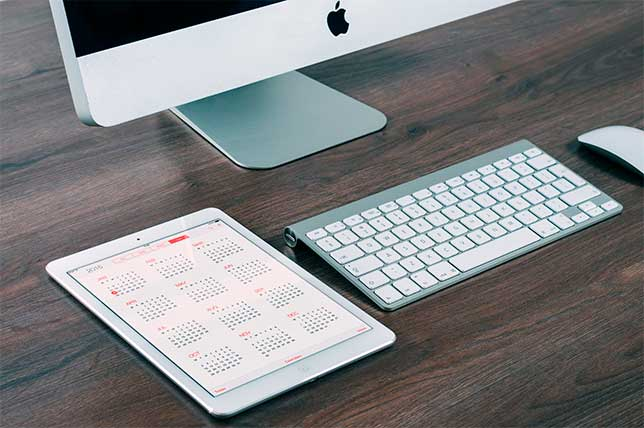
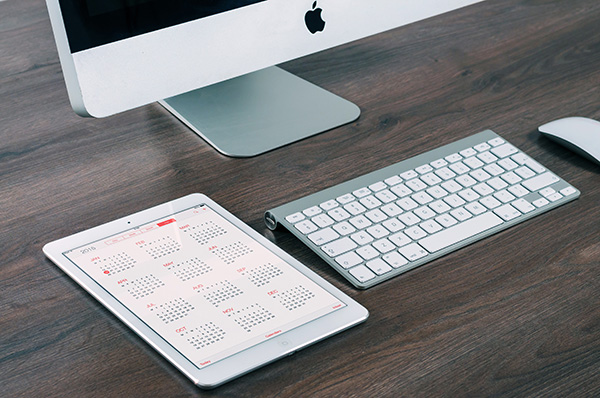
section blog all & change pictures

diff --git a/index.html b/index.html
@@ -345,14 +345,14 @@
                         <div class="team__member-name">John Doe</div>
                         <div class="team__member-profession">General Manager</div>
                         <ul class="social-network">
-                            <li class="social-network__item">
-                                <a href="" class="social-network__link">
-                                    <img src="./img/fb.png" alt="facebook" class="social-network__fb">
+                            <li class="social-network__item ">
+                                <a href="" class="social-network__link social-network__link--active">
+                                    <img src="./img/fb.png" alt="facebook" class="social-network__fb ">
                                 </a>
                             </li>
                             <li class="social-network__item">
                                 <a href="" class="social-network__link">
-                                    <img src="./img/twitter.png" alt="twitter" class="social-network__fb">
+                                    <img src="./img/twitter.png" alt="twitter" class="social-network__fb ">
                                 </a>
                             </li>
                             <li class="social-network__item">
@@ -427,21 +427,23 @@
         </section>
         <section class="blog">
             <div class="container">
-                <h3 class="blog__title title">Blog</h3>
+                <h3 class="blog__title-text title">Blog</h3>
                 <div class="desc">Lorem ipsum dolor sit amet consectetur adipisicing elit. Numquam quos excepturi perferendis nostrum non hic illo saepe impedit officia repellendus!</div>
                     <ul class="blog__list">
                         <li class="blog__item blog__item-image">
                             <img src="./img/Layer-11.jpg" alt="" class="blog__image">
                         </li>
                         <li class="blog__item">
-                            <div class="blog__title">SEO Quis Vestibulum</div>
-                            <div class="blog__data">
-                                <img src="./img/calen.png" alt="icon calendar" class="blog__data-calendar">
-                                <div class="blog__data-numbers">14.07.2017</div>
-                            </div>
-                            <div class="blog__type">
-                                <img src="./img/develop.png" alt="" class="blog__type-icon">
-                                <div class="blog__type-title">Development</div>
+                            <div class="blog__title blog__title--active">SEO Quis Vestibulum</div>
+                            <div class="blog__row">
+                                <div class="blog__data">
+                                    <img src="./img/calen.png" alt="icon calendar" class="blog__data-calendar">
+                                    <div class="blog__data-numbers">14.07.2017</div>
+                                </div>
+                                <div class="blog__type">
+                                    <img src="./img/develop.png" alt="" class="blog__type-icon">
+                                    <div class="blog__type-title">Development</div>
+                                </div>
                             </div>
                             <div class="blog__text">
                                 Lorem ipsum dolor sit, amet consectetur adipisicing elit. Dolor, maxime.
@@ -449,14 +451,17 @@
                         </li>
                         <li class="blog__item">
                             <div class="blog__title">SEO Quis Vestibulum</div>
-                            <div class="blog__data">
-                                <img src="./img/calen.png" alt="icon calendar" class="blog__data-calendar">
-                                <div class="blog__data-numbers">14.07.2017</div>
+                            <div class="blog__row">
+                                <div class="blog__data">
+                                    <img src="./img/calen.png" alt="icon calendar" class="blog__data-calendar">
+                                    <div class="blog__data-numbers">14.07.2017</div>
+                                </div>
+                                <div class="blog__type">
+                                    <img src="./img/develop.png" alt="" class="blog__type-icon">
+                                    <div class="blog__type-title">Development</div>
+                                </div>
                             </div>
-                            <div class="blog__type">
-                                <img src="./img/develop.png" alt="" class="blog__type-icon">
-                                <div class="blog__type-title">Development</div>
-                            </div>
+                            
                             <div class="blog__text">
                                 Lorem ipsum dolor sit, amet consectetur adipisicing elit. Dolor, maxime.
                             </div>
@@ -465,24 +470,26 @@
                             <img src="./img/apple-desk-working-technology.jpg" alt="" class="blog__image">
                         </li>
                         <li class="blog__item blog__item-image">
-                            <img src="./img/imac-apple-mockup-app-38544.jpg" alt="" class="blog__image">
+                            <img src="./img/imac-apple-mockup-app-38544.jpg" alt="" class="blog__image problem">
                         </li>
                         <li class="blog__item">
                             <div class="blog__title">SEO Quis Vestibulum</div>
-                            <div class="blog__data">
-                                <img src="./img/calen.png" alt="icon calendar" class="blog__data-calendar">
-                                <div class="blog__data-numbers">14.07.2017</div>
-                            </div>
-                            <div class="blog__type">
-                                <img src="./img/develop.png" alt="" class="blog__type-icon">
-                                <div class="blog__type-title">Development</div>
+                            <div class="blog__row">
+                                <div class="blog__data">
+                                    <img src="./img/calen.png" alt="icon calendar" class="blog__data-calendar">
+                                    <div class="blog__data-numbers">14.07.2017</div>
+                                </div>
+                                <div class="blog__type">
+                                    <img src="./img/develop.png" alt="" class="blog__type-icon">
+                                    <div class="blog__type-title">Development</div>
+                                </div>
                             </div>
                             <div class="blog__text">
                                 Lorem ipsum dolor sit, amet consectetur adipisicing elit. Dolor, maxime.
                             </div>
                         </li>
                     </ul>
-                <button class="btn">More View</button>
+                <button class="blog__btn btn btn--active">More View</button>
             </div>
             
         </section>

diff --git a/style.css b/style.css
@@ -464,9 +464,9 @@ h3{
     position: absolute;
     overflow: hidden;
 }
-/* .team__member-photo--first{
-    left: -35px;
-} */
+.team__member-photo--first{
+    background-size: cover;
+}
 .social-network{
     width: 285px;
     display: flex;
@@ -496,21 +496,29 @@ h3{
 }
 .social-network__fb{
     padding-top: 11px;
-    
+}
+.social-network__link--active{
+    background-color: rgb(57, 73, 171);
+}
+.social-network__fb--active{
+    filter: grayscale(0%); 
+    /* -webkit-filter:invert(50%); */
 }
 .blog{
     margin-top: 200px;
     background-color: rgb(228, 253, 249);
+    height: 1872px;
 }
-.blog__title{
+.blog__title-text{
     padding-top: 115px;
 }
 .blog__list{
     height: 1223px;
     list-style: none;
-    display: flex;
-    align-items: center;
-    justify-content: space-between;
+    display: grid;
+    grid-template-rows: 1fr 1fr 1fr;
+    grid-template-columns: 1fr 1fr;
+    grid-gap: 2vw;
     margin-top: 120px;
 }
 .blog__item{
@@ -518,7 +526,42 @@ h3{
     height: 401px;
 }
 .blog__item-image{
-    background-size: contain;
+    background-size: cover;
     background-repeat: no-repeat;
     overflow: hidden;
 }
+.blog__title{
+    font-weight: 600;
+    font-size: 25px;
+    padding-top: 50px;
+}
+.blog__row{
+    padding-top: 20px;
+    display: flex;
+    width: 325px;
+}
+.blog__data{
+    display: flex;
+    width: 160px;
+    justify-content: flex-start;
+}
+.blog__type{
+    display: flex;
+    width: 160px;
+    justify-content: flex-start;
+}
+.blog__data-calendar, .blog__type-icon{
+    margin-right: 10px;
+}
+.blog__text{
+    padding-top: 20px;
+}
+.blog__title--active{
+    color: rgb(0, 137, 123);
+}
+.blog__btn{
+    margin: 125px 475px;
+}
+/* .problem{
+    background-size: contain;
+} */
